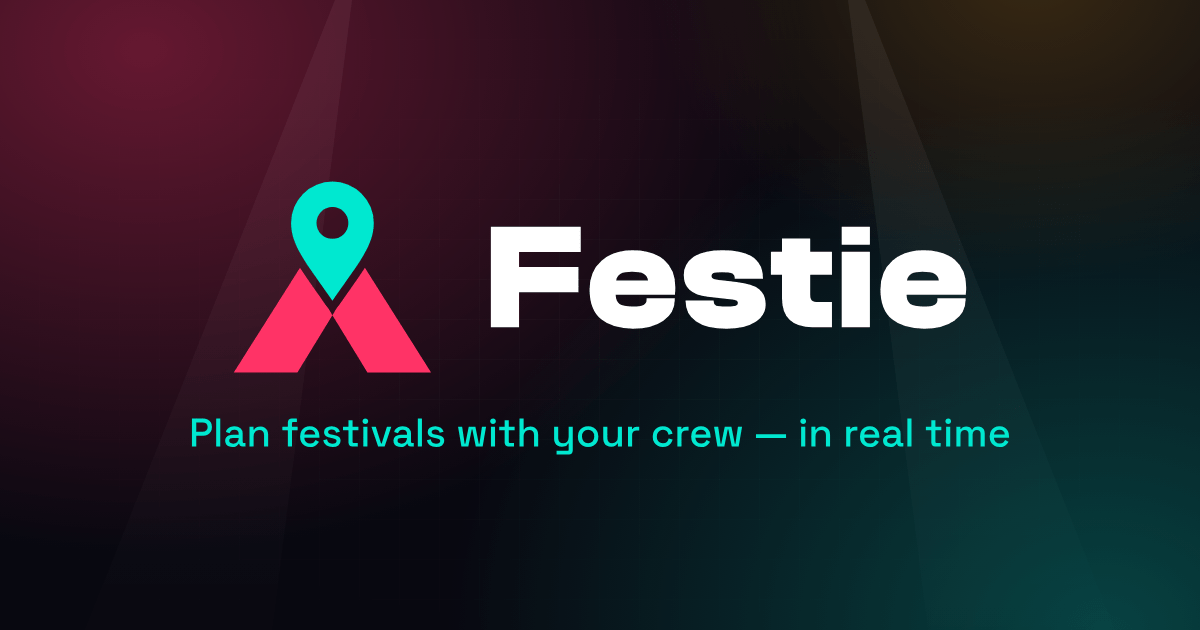
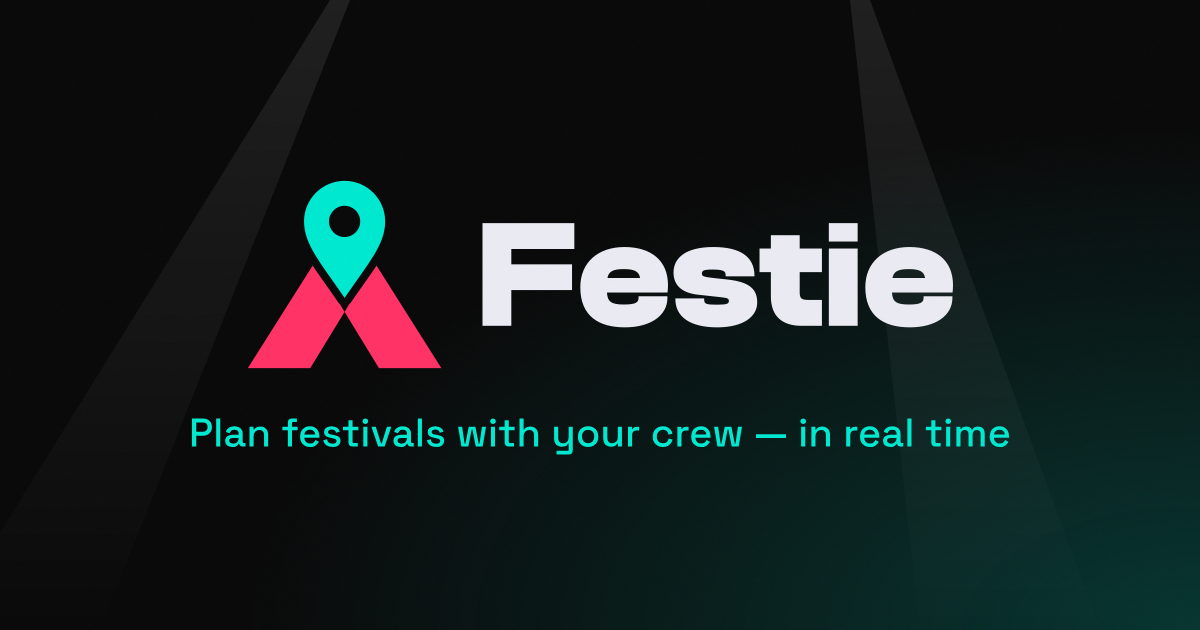
Put the brand lockup and festival band into link-preview images
Per-festival and per-plan previews were a flat text card in the server's fallback
font with no mark. They now draw the baked lockup paths, so the brand needs no
server font, on the token ground with the og-image rays. The festival card gets a
large date line and the OD-4 festival-hue band; the plan card stacks the picks
with Must largest. og-image.png is re-exported as 24-bit on the same ground.

diff --git a/lib/helpers/share-og-image.ts b/lib/helpers/share-og-image.ts
@@ -4,14 +4,23 @@
 /**
  * Link-preview images (og:image) for the public share and festival pages: 1200x630
  * SVGs that routes/share.ts and routes/pages.ts convert to PNG with sharp.
+ *
+ * The lockup is baked as paths (copied from docs/brand/festie-lockup.svg), so the brand needs no
+ * server font. Festival names, dates and artist names are live text in the server's sans font:
+ * outlining arbitrary text needs a bundled font file, and a font change on the production host is
+ * an owner decision.
  */
 
 import { escapeHtml } from './sanitize.js';
 import { colors } from '../../packages/shared/src/tokens/colors';
+import { posterBand } from '../../packages/shared/src/utils/festivalTint';
 import { festivalStartMinutes } from '../time-zone.js';
 
 const OG_WIDTH = 1200;
 const OG_HEIGHT = 630;
+const MARGIN = 64;
+/** Height of the festival-hue band on the festival card (POSTER.band.height). */
+const BAND_HEIGHT = 24;
 
 /** 24-hour `HH:MM`, the stored set time format. */
 export const CLOCK_TIME_RE = /^([01]\d|2[0-3]):[0-5]\d$/;
@@ -33,22 +42,52 @@ function truncate(value: string, max: number) {
 const text = (x: number, y: number, size: number, fill: string, value: string, weight = 400, anchor = 'start') =>
   `<text x="${x}" y="${y}" text-anchor="${anchor}" font-family="sans-serif" font-size="${size}" font-weight="${weight}" fill="${fill}">${escapeHtml(value)}</text>`;
 
-const svgDocument = (lines: string[]) =>
-  `<svg xmlns="http://www.w3.org/2000/svg" width="${OG_WIDTH}" height="${OG_HEIGHT}" viewBox="0 0 ${OG_WIDTH} ${OG_HEIGHT}">${lines.join('')}</svg>`;
+/** Horizontal lockup (mark and mixed-case wordmark) from a 683x199 box, drawn `height` px tall. */
+const lockup = (x: number, y: number, height: number) =>
+  `<g transform="translate(${x} ${y}) scale(${height / 199})">` +
+  `<g transform="translate(-84.25 -84.25) scale(0.7292)"><path fill="${colors.accent.coral}" d="M132 372 212 372 256 300 250.11 290.08 249.72 289.78 249.35 289.47 248.99 289.13 248.65 288.79 248.33 288.42 248.03 288.04 247.75 287.65 245.89 284.94 244.07 282.29 242.26 279.69 240.48 277.13 238.72 274.62 235.26 269.72 227.04 258.10 223.95 253.70 222.44 251.53 220.96 249.39 219.51 247.28 218.09 245.18 216.66 243.05 215.07 240.64ZM256 300 300 372 380 372 296.93 240.64 295.34 243.05 293.91 245.18 292.49 247.28 291.04 249.39 289.56 251.53 288.05 253.70 284.96 258.10 276.74 269.72 273.28 274.62 271.52 277.13 269.74 279.69 267.93 282.29 266.11 284.94 264.25 287.65 263.97 288.04 263.67 288.42 263.35 288.79 263.01 289.13 262.65 289.47 262.28 289.78 261.89 290.08Z"/>` +
+  `<path fill="${colors.accent.aqua}" fill-rule="evenodd" d="M256 282c-30-44-52-68-52-98a52 52 0 0 1 104 0c0 30-22 54-52 98zm0-78a20 20 0 1 0 0-40 20 20 0 0 0 0 40z"/></g>` +
+  `<path fill="${colors.text.primary}" transform="translate(227 147.5)" d="M31.24 0V-33.39H87.98V-57.46H31.24V-71.79H90.13V-96H4.3V0ZM137.41 1.43C161.77 1.43 177.1 -9.89 177.1 -25.93V-27.65H150.16V-26.08C150.16 -21.78 147.3 -19.92 136.41 -19.92C124.94 -19.92 121.07 -22.35 120.64 -31.09H177.24C177.53 -33.67 177.67 -35.53 177.67 -37.97C177.67 -61.18 161.77 -73.65 136.84 -73.65C112.76 -73.65 95.71 -59.61 95.71 -36.11C95.71 -9.03 112.91 1.43 137.41 1.43ZM136.26 -53.01C146.29 -53.01 150.59 -50.87 151.59 -44.7H121.07C122.22 -50.87 126.38 -53.01 136.26 -53.01ZM223.67 1.43C247.59 1.43 261.06 -8.31 261.06 -21.78C261.06 -33.96 254.33 -40.98 233.27 -43.27L218.94 -44.85C210.48 -45.71 209.34 -46.71 209.34 -48.72C209.34 -51.44 210.48 -52.59 219.22 -52.59C230.11 -52.59 231.55 -50.87 231.55 -47.14V-46.28H258.48V-46.85C258.48 -64.62 245.16 -73.65 220.08 -73.65C193 -73.65 182.83 -62.61 182.83 -49.86C182.83 -37.68 190.85 -30.66 205.76 -29.09L226.67 -26.79C233.41 -26.08 234.56 -25.5 234.56 -23.21C234.56 -20.78 233.12 -19.77 223.81 -19.77C214.07 -19.77 211.49 -20.2 211.49 -24.21V-25.65H184.55V-25.07C184.55 -8.45 198.16 1.43 223.67 1.43ZM321.53 0V-24.21H308.63C302.47 -24.21 300.75 -25.65 300.75 -31.38V-50.15H321.53V-72.21H300.75V-84.68H273.81V-72.21H263.21V-50.15H273.81V-27.51C273.81 -8.74 284.56 0 302.61 0ZM354.91 -78.81V-96H327.98V-78.81ZM354.91 0V-72.21H327.98V0ZM403.77 1.43C428.13 1.43 443.46 -9.89 443.46 -25.93V-27.65H416.53V-26.08C416.53 -21.78 413.66 -19.92 402.77 -19.92C391.31 -19.92 387.44 -22.35 387.01 -31.09H443.61C443.89 -33.67 444.04 -35.53 444.04 -37.97C444.04 -61.18 428.13 -73.65 403.2 -73.65C379.13 -73.65 362.08 -59.61 362.08 -36.11C362.08 -9.03 379.27 1.43 403.77 1.43ZM402.63 -53.01C412.66 -53.01 416.96 -50.87 417.96 -44.7H387.44C388.59 -50.87 392.74 -53.01 402.63 -53.01Z"/></g>`;
 
-/** Returns the preview SVG. Every text value is escaped; escapeHtml's entities are valid XML. */
+/** Ground, the two rays of og-image.png and a soft aqua glow. Every card starts from this frame. */
+const frame = () =>
+  `<defs><linearGradient id="ray" x1="0" y1="0" x2="0" y2="1"><stop offset="0" stop-color="#fff" stop-opacity="0.09"/><stop offset="1" stop-color="#fff" stop-opacity="0"/></linearGradient>` +
+  `<radialGradient id="glow" cx="1" cy="1" r="0.8"><stop offset="0" stop-color="${colors.accent.aqua}" stop-opacity="0.16"/><stop offset="1" stop-color="${colors.accent.aqua}" stop-opacity="0"/></radialGradient></defs>` +
+  `<rect width="${OG_WIDTH}" height="${OG_HEIGHT}" fill="${colors.bg.primary}"/>` +
+  `<rect width="${OG_WIDTH}" height="${OG_HEIGHT}" fill="url(#glow)"/>` +
+  `<polygon points="760,0 880,0 1060,630 700,630" fill="url(#ray)"/>` +
+  `<polygon points="930,0 1010,0 1200,630 980,630" fill="url(#ray)"/>`;
+
+const svgDocument = (lines: string[]) =>
+  `<svg xmlns="http://www.w3.org/2000/svg" width="${OG_WIDTH}" height="${OG_HEIGHT}" viewBox="0 0 ${OG_WIDTH} ${OG_HEIGHT}">${frame()}${lines.join('')}</svg>`;
+
+/** Shorter festival names get larger type. */
+const headlineSize = (name: string) => ([...name].length <= 16 ? 84 : [...name].length <= 24 ? 68 : 54);
+
+/**
+ * Returns the plan card SVG: the festival, then the picks as a stack with Must See largest.
+ * Aqua only: the plan card never carries the festival hue. Every text value is escaped;
+ * escapeHtml's entities are valid XML.
+ */
 export function buildShareOgSvg(input: ShareOgInput): string {
   const lines = [
-    `<rect width="${OG_WIDTH}" height="${OG_HEIGHT}" fill="${colors.bg.primary}"/>`,
-    text(64, 88, 28, '#ff3366', 'FESTIE', 800),
-    text(64, 170, 60, '#eaeaf2', truncate(input.festivalName, 32), 700),
-    text(64, 226, 34, '#9999bb', `${input.username}'s picks`),
+    lockup(MARGIN, 52, 56),
+    `<rect x="0" y="0" width="8" height="${OG_HEIGHT}" fill="${colors.accent.aqua}"/>`,
+    text(MARGIN, 172, 54, colors.text.primary, truncate(input.festivalName, 32), 700),
+    text(MARGIN, 220, 30, colors.text.secondary, `${input.username}'s picks`),
   ];
+  // pickOgArtists lists Must See first, so the first `must` rows are the Must picks.
+  let y = 296;
   input.artists.slice(0, 5).forEach((artist, i) => {
-    lines.push(text(64, 300 + i * 46, 34, '#eaeaf2', truncate(artist, 28), 600));
+    const isMust = i < input.must;
+    const size = isMust ? 46 : 32;
+    const dot = isMust ? colors.priority.must : colors.priority.want;
+    lines.push(`<circle cx="${MARGIN + 10}" cy="${y - size * 0.32}" r="${isMust ? 9 : 6}" fill="${dot}"/>`);
+    lines.push(text(MARGIN + 36, y, size, isMust ? colors.text.primary : colors.text.secondary, truncate(artist, 28), isMust ? 700 : 500));
+    y += isMust ? 58 : 46;
   });
-  lines.push(text(64, 580, 26, '#9999bb', `${input.total} sets · ${input.must} must-see`));
-  if (input.location) lines.push(text(OG_WIDTH - 64, 580, 26, '#9999bb', truncate(input.location, 40), 400, 'end'));
+  lines.push(text(MARGIN, 592, 26, colors.text.secondary, `${input.total} sets · ${input.must} must-see`));
+  if (input.location) lines.push(text(OG_WIDTH - MARGIN, 592, 26, colors.text.secondary, truncate(input.location, 40), 400, 'end'));
 
   return svgDocument(lines);
 }
@@ -63,23 +102,28 @@ export interface FestivalOgInput {
   announcedCount?: number;
 }
 
-/** Preview SVG for the public festival page (/f/<slug>/og.png). Same frame as the share image. */
+/**
+ * Preview SVG for the public festival page (/f/<slug>/og.png): the festival name, a large date
+ * line and a count line. The one band along the top edge carries the festival hue (OD-4 C);
+ * `posterBand` swaps in the neutral stage colour when the hue is near coral or aqua or too dark.
+ */
 export function buildFestivalOgSvg(input: FestivalOgInput): string {
   const plural = (n: number, word: string) => `${n} ${word}${n === 1 ? '' : 's'}`;
+  const festivalName = truncate(input.festivalName, 32);
   const lines = [
-    `<rect width="${OG_WIDTH}" height="${OG_HEIGHT}" fill="${colors.bg.primary}"/>`,
-    text(64, 88, 28, '#ff3366', 'FESTIE', 800),
-    text(64, 170, 60, '#eaeaf2', truncate(input.festivalName, 32), 700),
+    `<rect x="0" y="0" width="${OG_WIDTH}" height="${BAND_HEIGHT}" fill="${posterBand(input.festivalName).colour}"/>`,
+    lockup(MARGIN, 76, 56),
+    text(MARGIN, 280, headlineSize(festivalName), colors.text.primary, festivalName, 700),
   ];
-  if (input.dateRange) lines.push(text(64, 226, 34, '#9999bb', input.dateRange));
+  if (input.dateRange) lines.push(text(MARGIN, 366, 52, colors.accent.aqua, input.dateRange, 700));
   const stages = plural(input.stageCount, 'stage');
   const announced = input.setCount === 0 ? (input.announcedCount ?? 0) : 0;
   const summary =
     announced > 0
       ? `${plural(announced, 'act')} announced${input.stageCount > 0 ? ` · ${stages}` : ''}`
       : `${plural(input.setCount, 'set')} · ${stages}`;
-  lines.push(text(64, 580, 26, '#9999bb', summary));
-  if (input.location) lines.push(text(OG_WIDTH - 64, 580, 26, '#9999bb', truncate(input.location, 40), 400, 'end'));
+  lines.push(text(MARGIN, 440, 38, colors.text.primary, summary, 500));
+  if (input.location) lines.push(text(MARGIN, 592, 28, colors.text.secondary, truncate(input.location, 48)));
   return svgDocument(lines);
 }
 

diff --git a/tests/share-preview.test.ts b/tests/share-preview.test.ts
@@ -11,7 +11,9 @@ import { describe, test, mock } from 'node:test';
 import express from 'express';
 import request from 'supertest';
 import sharp from 'sharp';
-import { buildShareOgSvg, pickOgArtists } from '../lib/helpers/share-og-image.js';
+import { buildShareOgSvg, buildFestivalOgSvg, pickOgArtists } from '../lib/helpers/share-og-image.js';
+import { colors } from '../packages/shared/src/tokens/colors';
+import { posterBand } from '../packages/shared/src/utils/festivalTint';
 
 const noopLog = { info() {}, warn() {}, error() {}, debug() {} };
 
@@ -233,7 +235,7 @@ describe('buildShareOgSvg', () => {
     assert.ok(svg.includes('&lt;u&gt;&amp;&#39;s picks'));
     assert.ok(svg.includes('A &quot;B&quot;'));
     assert.ok(svg.includes('3 sets · 1 must-see'));
-    assert.ok(svg.includes('>FESTIE<'));
+    assert.ok(!svg.includes('>FESTIE<'), 'the wordmark is outlined, not live text');
   });
 
   test('truncates the festival name at 32 and artists at 28 characters, and shows at most 5 artists', () => {
@@ -251,6 +253,52 @@ describe('buildShareOgSvg', () => {
   test('leaves short values whole', () => {
     const svg = buildShareOgSvg({ ...base, festivalName: 'F'.repeat(32) });
     assert.ok(svg.includes(`>${'F'.repeat(32)}<`));
+  });
+});
+
+describe('OG card brand and layout', () => {
+  const plan = { username: 'sam', festivalName: 'Fest', location: 'Here', artists: ['M1', 'M2', 'W1', 'W2'], total: 9, must: 2 };
+  const fest = { festivalName: 'EDC Orlando 2026', dateRange: 'Nov 6 – 8, 2026', location: 'Here', setCount: 3, stageCount: 2 };
+  const fontSizeOf = (svg: string, label: string) => Number(new RegExp(`font-size="(\\d+)"[^>]*>${label}<`).exec(svg)![1]);
+
+  test('both cards bake the mark and wordmark paths and need no brand font', () => {
+    for (const svg of [buildShareOgSvg(plan), buildFestivalOgSvg(fest)]) {
+      assert.ok(svg.includes(`fill="${colors.accent.coral}" d="M132 372`));
+      assert.ok(svg.includes(`fill="${colors.accent.aqua}" fill-rule="evenodd"`));
+      assert.ok(svg.includes(`fill="${colors.text.primary}" transform="translate(227 147.5)"`));
+      assert.ok(svg.includes(`fill="${colors.bg.primary}"`));
+      assert.ok(!svg.includes('080810'));
+    }
+  });
+
+  test('plan card draws Must picks larger than Want picks and carries no festival hue', () => {
+    const svg = buildShareOgSvg({ ...plan, festivalName: 'EDC Orlando 2026' });
+    assert.ok(fontSizeOf(svg, 'M1') > fontSizeOf(svg, 'W1'));
+    assert.equal(fontSizeOf(svg, 'M1'), fontSizeOf(svg, 'M2'));
+    assert.equal(svg.match(new RegExp(`<circle [^>]*fill="${colors.priority.must}"`, 'g'))!.length, 2);
+    assert.ok(!svg.includes(posterBand('EDC Orlando 2026').colour));
+  });
+
+  test('festival card carries one band in the festival hue (OD-4 C)', () => {
+    const svg = buildFestivalOgSvg(fest);
+    const band = posterBand(fest.festivalName);
+    assert.equal(band.fallback, false);
+    assert.ok(svg.includes(`<rect x="0" y="0" width="1200" height="24" fill="${band.colour}"/>`));
+    assert.ok(svg.includes(`fill="${colors.accent.aqua}"`));
+  });
+
+  test('festival card swaps a hue near aqua for the neutral stage colour', () => {
+    const near = 'Beta';
+    assert.equal(posterBand(near).fallback, true);
+    assert.ok(buildFestivalOgSvg({ ...fest, festivalName: near }).includes(`height="24" fill="${colors.stage.fallback}"`));
+  });
+
+  test('both cards render to a 1200x630 PNG', async () => {
+    for (const svg of [buildShareOgSvg(plan), buildFestivalOgSvg(fest)]) {
+      const meta = await sharp(Buffer.from(svg)).png().metadata();
+      assert.equal(meta.width, 1200);
+      assert.equal(meta.height, 630);
+    }
   });
 });
 

diff --git a/tests/festival-page.test.ts b/tests/festival-page.test.ts
@@ -391,7 +391,7 @@ describe('festival page: GET /f/:slug/og.png', () => {
     const svg = buildFestivalOgSvg({ festivalName: '<x>', dateRange: null, location: '', setCount: 1, stageCount: 1 });
     assert.ok(svg.includes('>1 set · 1 stage<'));
     assert.ok(svg.includes('&lt;x&gt;'));
-    assert.equal((svg.match(/<text /g) || []).length, 3);
+    assert.equal((svg.match(/<text /g) || []).length, 2);
     const full = buildFestivalOgSvg({
       festivalName: 'N'.repeat(40),
       dateRange: 'Nov 6 – Nov 8, 2026',
@@ -402,7 +402,7 @@ describe('festival page: GET /f/:slug/og.png', () => {
     assert.ok(full.includes(`>${'N'.repeat(32)}…<`));
     assert.ok(full.includes('>Nov 6 – Nov 8, 2026<'));
     assert.ok(full.includes('>12 sets · 3 stages<'));
-    assert.ok(full.includes('text-anchor="end"'));
+    assert.ok(full.includes('>Tinker Field<'));
   });
 });
 

diff --git a/docs/brand/README.md b/docs/brand/README.md
@@ -50,6 +50,9 @@ Below those sizes the pin gap closes. Use the mark alone when the space is narro
    "FESTIE" sits beside it in Clash Display 700 caps, in House Light (`text.primary`).
 2. **Mixed-case "Festie" lockup** (`festie-lockup.svg` or `.png`) on OG images, email and server
    pages, such as the festival, invite and share pages. The email header uses `public/icons/email-lockup.png`.
+   `lib/helpers/share-og-image.ts` bakes the lockup paths for the per-festival and per-plan
+   previews. If you change `festie-lockup.svg`, copy the new paths there and re-export
+   `packages/web/public/og-image.png`.
 3. **Tracked caps "FESTIE"** only in the header of the Wrap poster.
 
 A stacked lockup is planned and is not approved yet.
